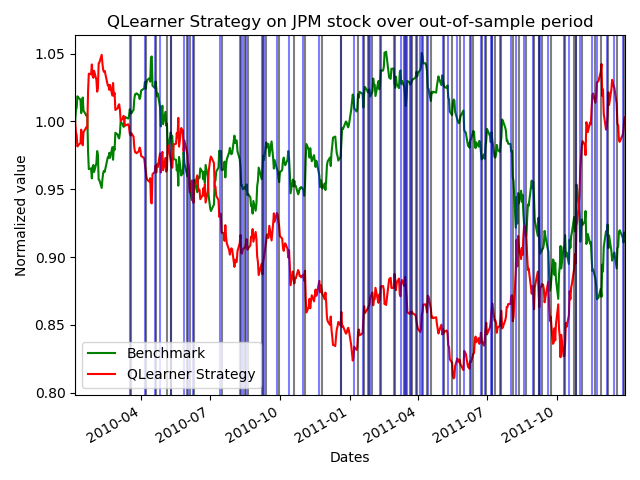
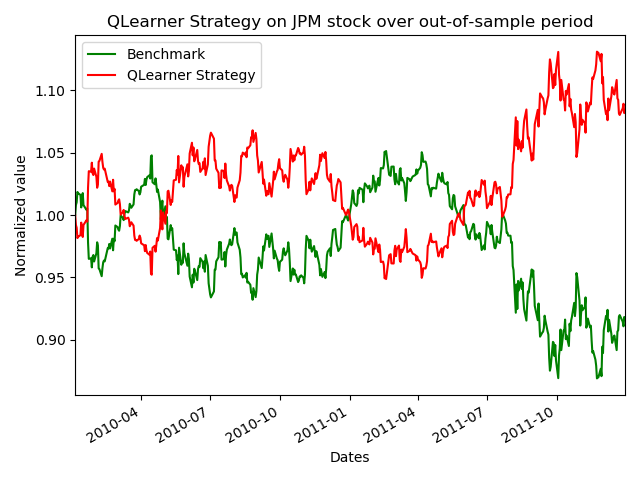
added stdev indicator

diff --git a/StrategyLearner.py b/StrategyLearner.py
@@ -32,11 +32,16 @@ from matplotlib import pyplot as plt
 import numpy as np
 import pandas as pd
 from util import get_data
-from indicators import get_daily_returns
 from indicators import get_indicators
+from indicators import get_daily_returns
 from indicators import cum_return
 from marketsimcode import compute_portvals
+
+
+
 import QLearner as ql
+
+
 
 
 class StrategyLearner(object):
@@ -49,9 +54,9 @@ class StrategyLearner(object):
         self.num_states = self.n_bins ** 3
         self.mean = None
         self.std = None
-        self.divergence_bins = None
-        self.bbr_bins = None
-        self.SMAr_bins = None
+        self.stdev_divergence_bins = None
+        self.boll_bandr_bins = None
+        self.simple_moving_averager_bins = None
         self.min_iter = min_iter
         self.max_iter = max_iter
         self.seed = seed
@@ -96,30 +101,36 @@ class StrategyLearner(object):
         if (self.std == 0).any():
             self.std = 1
         std_indicators = self.normalize_indicators(indicators, self.mean, self.std)
-        divergence = std_indicators["divergence"]
-        bbr = std_indicators["bbr"]
-        SMAr = std_indicators["SMAr"]
+        #stdev_divergence = std_indicators["stdev_divergence"]
+        #boll_bandr = std_indicators["boll_bandr"]
+        #simple_moving_averager = std_indicators["simple_moving_averager"]
+        
+        
+        
+        boll_bandr = indicators["boll_bandr"]
+        simple_moving_averager = indicators["simple_moving_averager"]
+        stdev_divergence=indicators["stdev"]
 
         # Discretize
         ## MACD
-        _, self.divergence_bins = pd.qcut(divergence, self.n_bins, retbins=True, labels=False)
-        divergence_ind = self.discretize(divergence, self.divergence_bins, self.n_bins)
-        divergence_ind = pd.Series(divergence_ind, index=indicators.index)
+        _, self.stdev_divergence_bins = pd.qcut(stdev_divergence, self.n_bins, retbins=True, labels=False)
+        stdev_divergence_ind = self.discretize(stdev_divergence, self.stdev_divergence_bins, self.n_bins)
+        stdev_divergence_ind = pd.Series(stdev_divergence_ind, index=indicators.index)
         ## Bollinger Bands
-        _, self.bbr_bins = pd.qcut(bbr, self.n_bins, retbins=True, labels=False)
-        bbr_ind = self.discretize(bbr, self.bbr_bins, self.n_bins)
-        bbr_ind = pd.Series(bbr_ind, index=indicators.index)
+        _, self.boll_bandr_bins = pd.qcut(boll_bandr, self.n_bins, retbins=True, labels=False)
+        boll_bandr_ind = self.discretize(boll_bandr, self.boll_bandr_bins, self.n_bins)
+        boll_bandr_ind = pd.Series(boll_bandr_ind, index=indicators.index)
         ## SMA
-        _, self.SMAr_bins = pd.qcut(SMAr, self.n_bins, retbins=True, labels=False)
-        SMAr_ind = self.discretize(SMAr, self.SMAr_bins, self.n_bins)
-        SMAr_ind = pd.Series(SMAr_ind, index=indicators.index)
+        _, self.simple_moving_averager_bins = pd.qcut(simple_moving_averager, self.n_bins, retbins=True, labels=False)
+        simple_moving_averager_ind = self.discretize(simple_moving_averager, self.simple_moving_averager_bins, self.n_bins)
+        simple_moving_averager_ind = pd.Series(simple_moving_averager_ind, index=indicators.index)
 
         # Compute states of in-sample data
         discretized_indicators = pd.DataFrame(index=indicators.index)
-        discretized_indicators["divergence"] = divergence_ind.values
-        discretized_indicators["bbr"] = bbr_ind.values
-        discretized_indicators["SMAr"] = SMAr_ind.values
-        discretized_indicators["mapping"] = divergence_ind.astype(str) + bbr_ind.astype(str) + SMAr_ind.astype(str)
+        discretized_indicators["stdev"] = stdev_divergence_ind.values
+        discretized_indicators["boll_bandr"] = boll_bandr_ind.values
+        discretized_indicators["simple_moving_averager"] = simple_moving_averager_ind.values
+        discretized_indicators["mapping"] = stdev_divergence_ind.astype(str) + boll_bandr_ind.astype(str) + simple_moving_averager_ind.astype(str)
         discretized_indicators["state"] = discretized_indicators["mapping"].astype(np.int)
         states = discretized_indicators["state"]
 
@@ -189,28 +200,33 @@ class StrategyLearner(object):
 
         # Indicators
         indicators = get_indicators(prices.to_frame(symbol))
+        #std_indicators = self.normalize_indicators(indicators, self.mean, self.std)
+        #stdev_divergence = std_indicators["stdev"]
+        #boll_bandr = std_indicators["boll_bandr"]
+        #simple_moving_averager = std_indicators["simple_moving_averager"]
+        
         std_indicators = self.normalize_indicators(indicators, self.mean, self.std)
-        divergence = std_indicators["divergence"]
-        bbr = std_indicators["bbr"]
-        SMAr = std_indicators["SMAr"]
+        stdev_divergence = indicators["stdev"]
+        boll_bandr = indicators["boll_bandr"]
+        simple_moving_averager = indicators["simple_moving_averager"]
 
         # Discretize
         ## MACD
-        divergence_ind = self.discretize(divergence, self.divergence_bins, self.n_bins)
-        divergence_ind = pd.Series(divergence_ind, index=indicators.index)
+        stdev_divergence_ind = self.discretize(stdev_divergence, self.stdev_divergence_bins, self.n_bins)
+        stdev_divergence_ind = pd.Series(stdev_divergence_ind, index=indicators.index)
         ## Bollinger Bands
-        bbr_ind = self.discretize(bbr, self.bbr_bins, self.n_bins)
-        bbr_ind = pd.Series(bbr_ind, index=indicators.index)
+        boll_bandr_ind = self.discretize(boll_bandr, self.boll_bandr_bins, self.n_bins)
+        boll_bandr_ind = pd.Series(boll_bandr_ind, index=indicators.index)
         ## SMA
-        SMAr_ind = self.discretize(SMAr, self.SMAr_bins, self.n_bins)
-        SMAr_ind = pd.Series(SMAr_ind, index=indicators.index)
+        simple_moving_averager_ind = self.discretize(simple_moving_averager, self.simple_moving_averager_bins, self.n_bins)
+        simple_moving_averager_ind = pd.Series(simple_moving_averager_ind, index=indicators.index)
 
         # Compute states of out-of-sample data
         discretized_indicators = pd.DataFrame(index=indicators.index)
-        discretized_indicators["divergence"] = divergence_ind.values
-        discretized_indicators["bbr"] = bbr_ind.values
-        discretized_indicators["SMAr"] = SMAr_ind.values
-        discretized_indicators["mapping"] = divergence_ind.astype(str) + bbr_ind.astype(str) + SMAr_ind.astype(str)
+        discretized_indicators["stdev"] = stdev_divergence_ind.values
+        discretized_indicators["boll_bandr"] = boll_bandr_ind.values
+        discretized_indicators["simple_moving_averager"] = simple_moving_averager_ind.values
+        discretized_indicators["mapping"] = stdev_divergence_ind.astype(str) + boll_bandr_ind.astype(str) + simple_moving_averager_ind.astype(str)
         discretized_indicators["state"] = discretized_indicators["mapping"].astype(np.int)
         states = discretized_indicators["state"]
 
